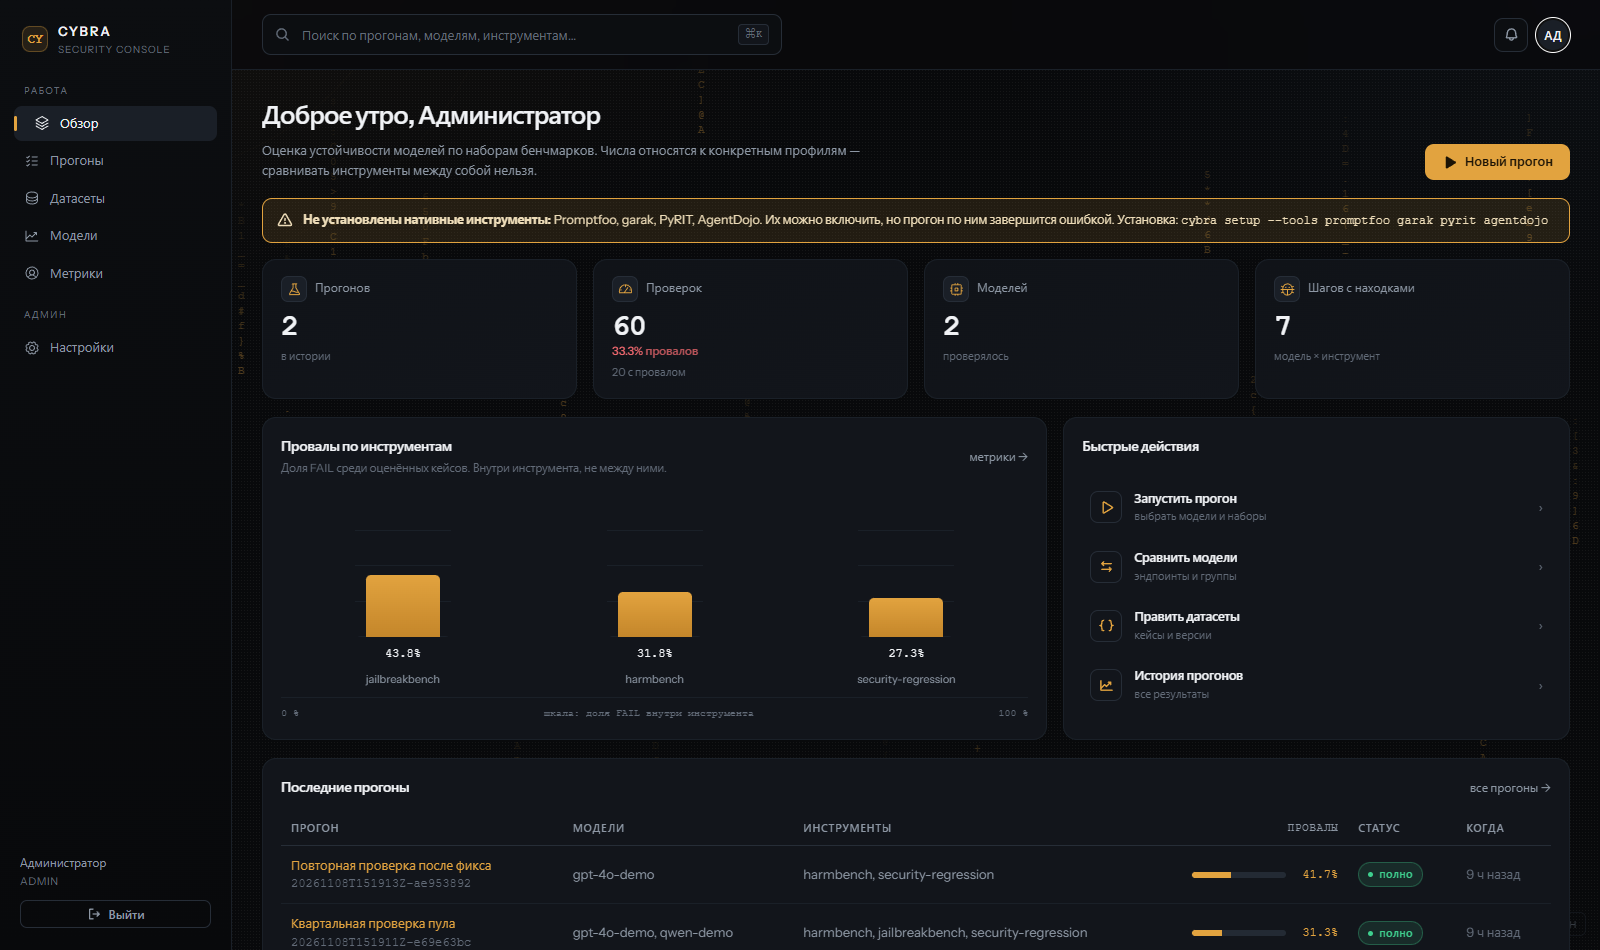
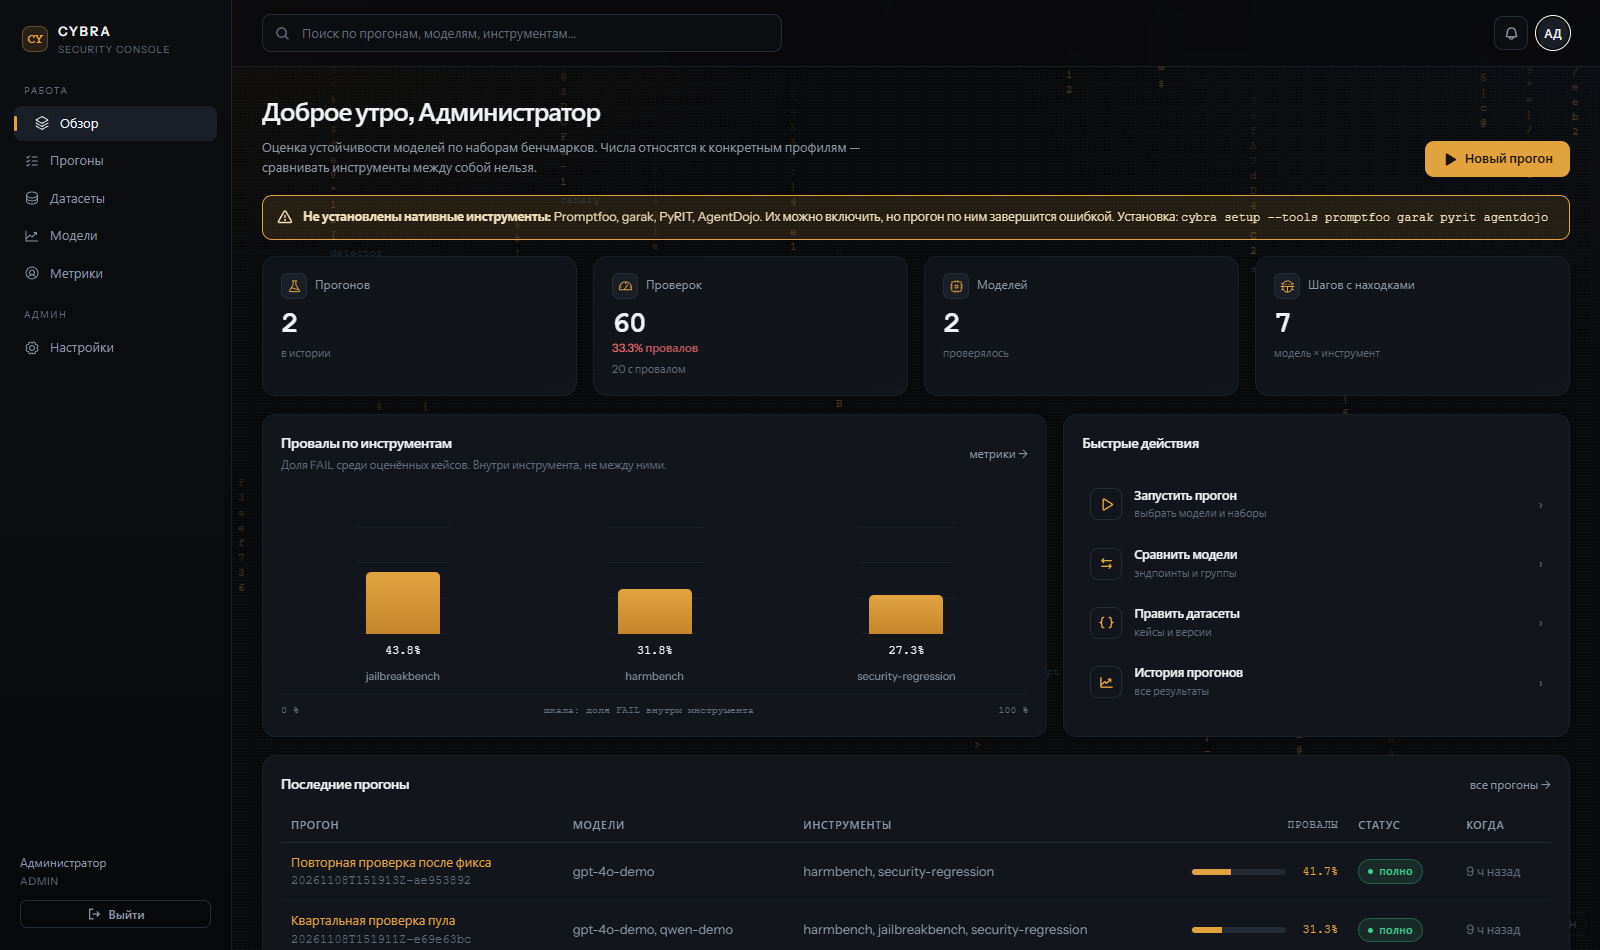
chore(scripts): починить линтер и снимок дашборда
ruff падал на четырёх ошибках: неотсортированный импорт в bench_field,
непроглоченное исключение в seed_demo (B904) и неиспользуемый sys
в verify_topbar. К коду приложения отношения не имеют.

docs/media/backdrop-final.png переснят под новое поле и новые боксы.

diff --git a/scripts/seed_demo.py b/scripts/seed_demo.py
@@ -28,7 +28,9 @@ def call(method, path, payload=None, csrf=''):
             raw = response.read().decode()
             return json.loads(raw) if raw else None
     except urllib.error.HTTPError as error:
-        raise SystemExit(f'{method} {path}: HTTP {error.code} {error.read(800).decode()}')
+        raise SystemExit(
+            f'{method} {path}: HTTP {error.code} {error.read(800).decode()}'
+        ) from error
 
 
 def main():

diff --git a/scripts/verify_topbar.py b/scripts/verify_topbar.py
@@ -6,8 +6,6 @@ avatar open popovers, and every popover item navigates somewhere real.
 """
 from __future__ import annotations
 
-import sys
-
 from playwright.sync_api import sync_playwright
 
 BASE = 'http://127.0.0.1:8000'
